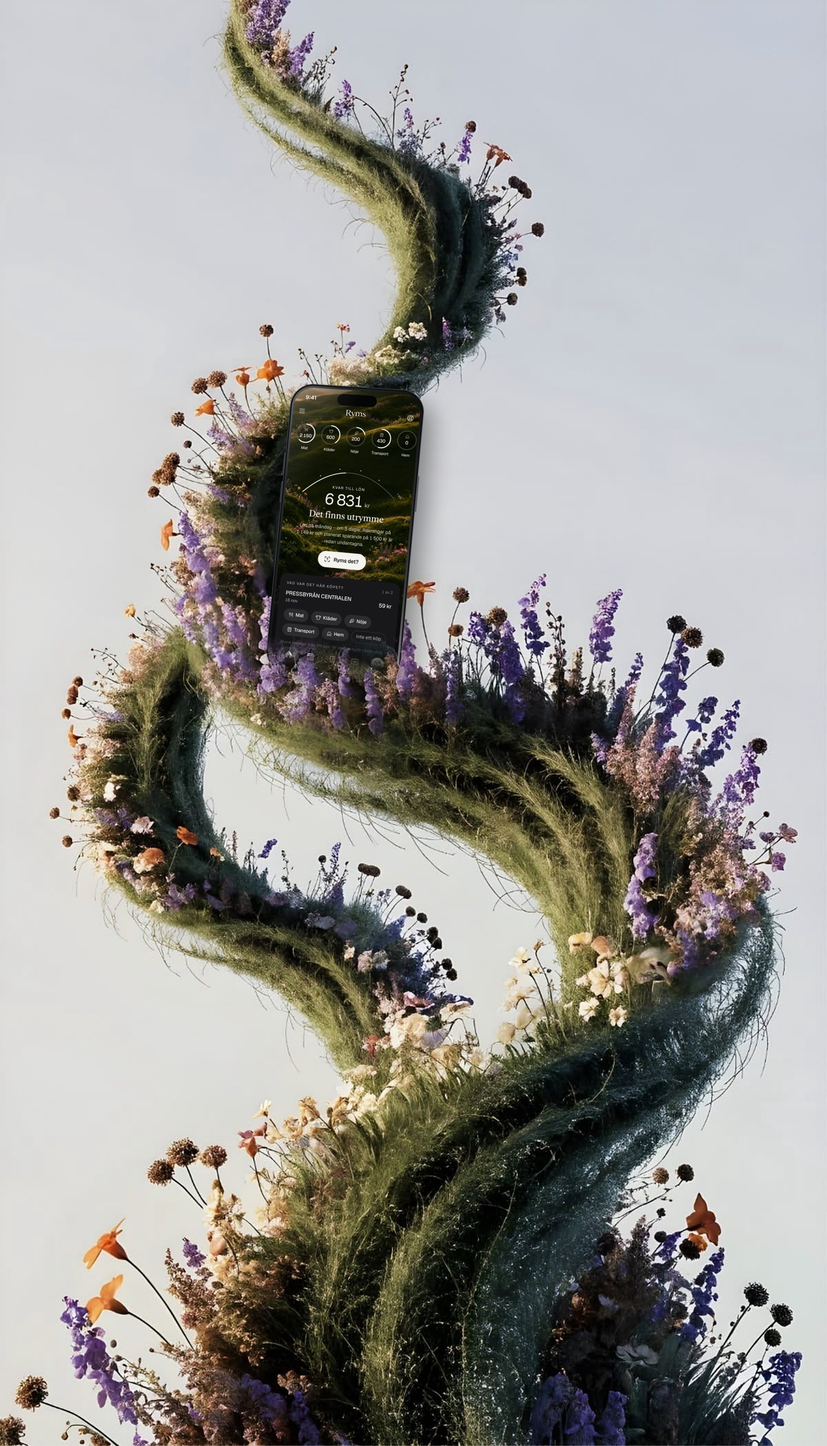
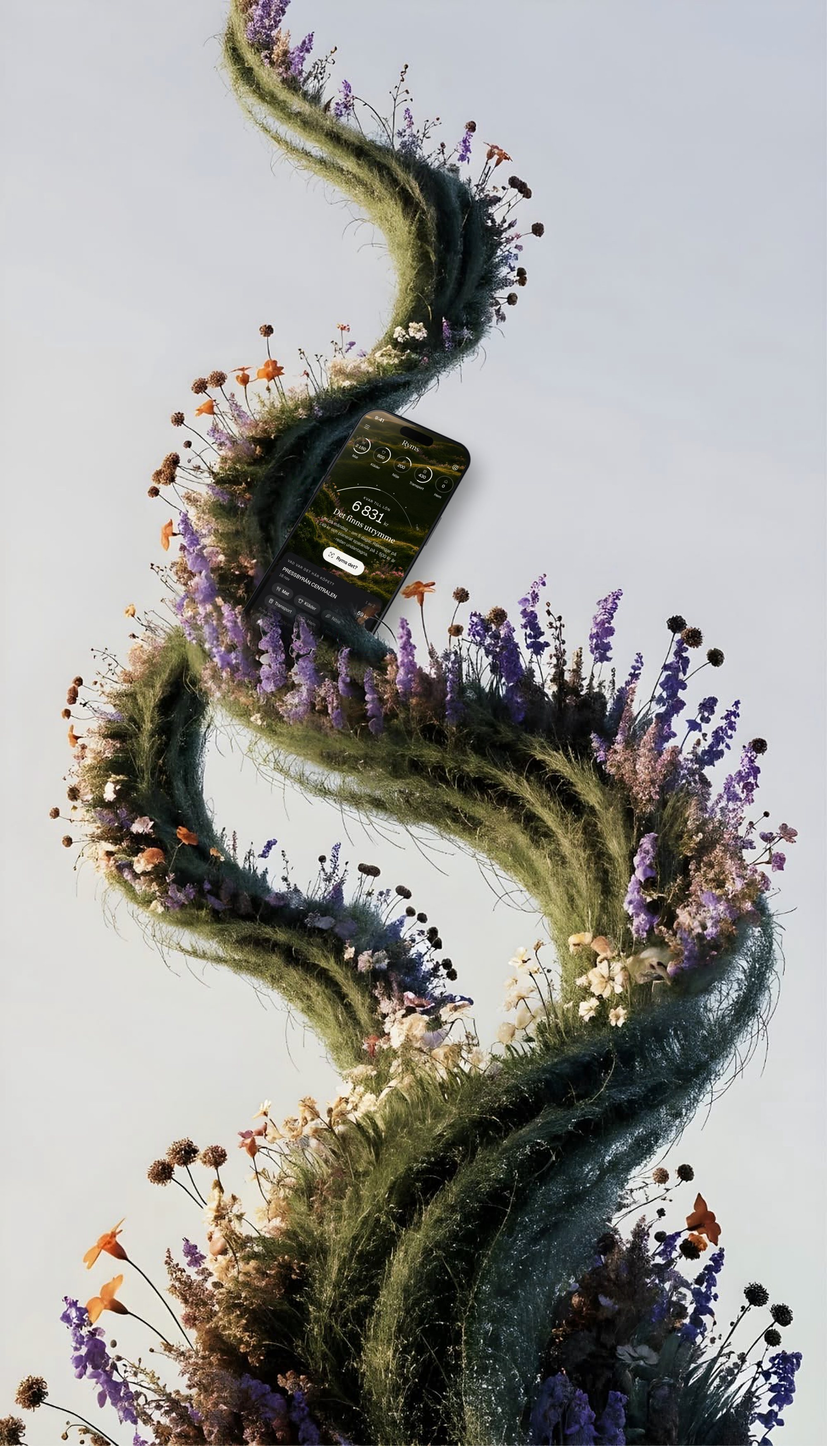
Landningssida: telefonen är mindre och lutar avslappnat i spiralen
Claude-Session: https://claude.ai/code/session_01GAD7svFHpQ8hFb5MfyqAze

Changed region(s): [[0.279, 0.2493, 0.589, 0.4674]]

diff --git a/scripts/landing-hero.py b/scripts/landing-hero.py
@@ -10,7 +10,7 @@ ROOT = os.path.dirname(os.path.dirname(os.path.abspath(__file__)))
 A = lambda *p: os.path.join(ROOT, *p)
 K = 2  # arbetsskala
 # Telefonens läge i originalbilden (1143 x 1996): mittpunkt och höjd
-CX, CY, PH = 500, 772, 500
+CX, CY, PH = 516, 792, 400  # PH = höjden på telefonens (lutade) yta
 
 marked = Image.open(A("assets/landing/spiral-marked.jpg")).convert("RGB")
 clean = Image.open(A("assets/landing/spiral-clean.webp")).convert("RGB").resize(marked.size, Image.LANCZOS)
@@ -22,6 +22,7 @@ base = Image.composite(clean, marked, redmask)
 base = base.resize((base.width * K, base.height * K), Image.LANCZOS).filter(ImageFilter.UnsharpMask(radius=2, percent=60, threshold=2))
 
 phone = Image.open(A("assets/landing/phone.png")).convert("RGBA")
+phone = phone.crop(phone.getbbox())
 h = PH * K
 phone = phone.resize((int(phone.width * h / phone.height), h), Image.LANCZOS)
 x0, y0 = CX * K - phone.width // 2, CY * K - phone.height // 2
@@ -29,7 +30,7 @@ x0, y0 = CX * K - phone.width // 2, CY * K - phone.height // 2
 # Skugga bakom telefonen
 alpha = phone.split()[3]
 shadow = Image.new("L", base.size, 0)
-shadow.paste(alpha, (x0 + 14 * K, y0 + 18 * K))
+shadow.paste(alpha, (x0 + 10 * K, y0 + 22 * K))
 shadow = shadow.filter(ImageFilter.GaussianBlur(16 * K)).point(lambda v: int(v * 0.42))
 out = Image.composite(Image.new("RGB", base.size, (20, 24, 22)), base, shadow)
 out.paste(phone, (x0, y0), phone)
@@ -42,7 +43,7 @@ dark = b.sum(axis=2) < sky.sum() - 110
 foliage = ((dist > 95) | dark).astype(np.uint8) * 255
 fol = Image.fromarray(foliage).filter(ImageFilter.MedianFilter(5)).filter(ImageFilter.GaussianBlur(1.2))
 ramp = np.zeros((base.height, base.width), np.float32)
-top, bot = y0 + int(phone.height * 0.80), y0 + int(phone.height * 0.90)
+top, bot = y0 + int(phone.height * 0.70), y0 + int(phone.height * 0.84)
 ys = np.arange(base.height)[:, None]
 ramp[:] = np.clip((ys - top) / max(1, bot - top), 0, 1)
 front = ImageChops.multiply(fol, Image.fromarray((ramp * 255).astype(np.uint8)))
